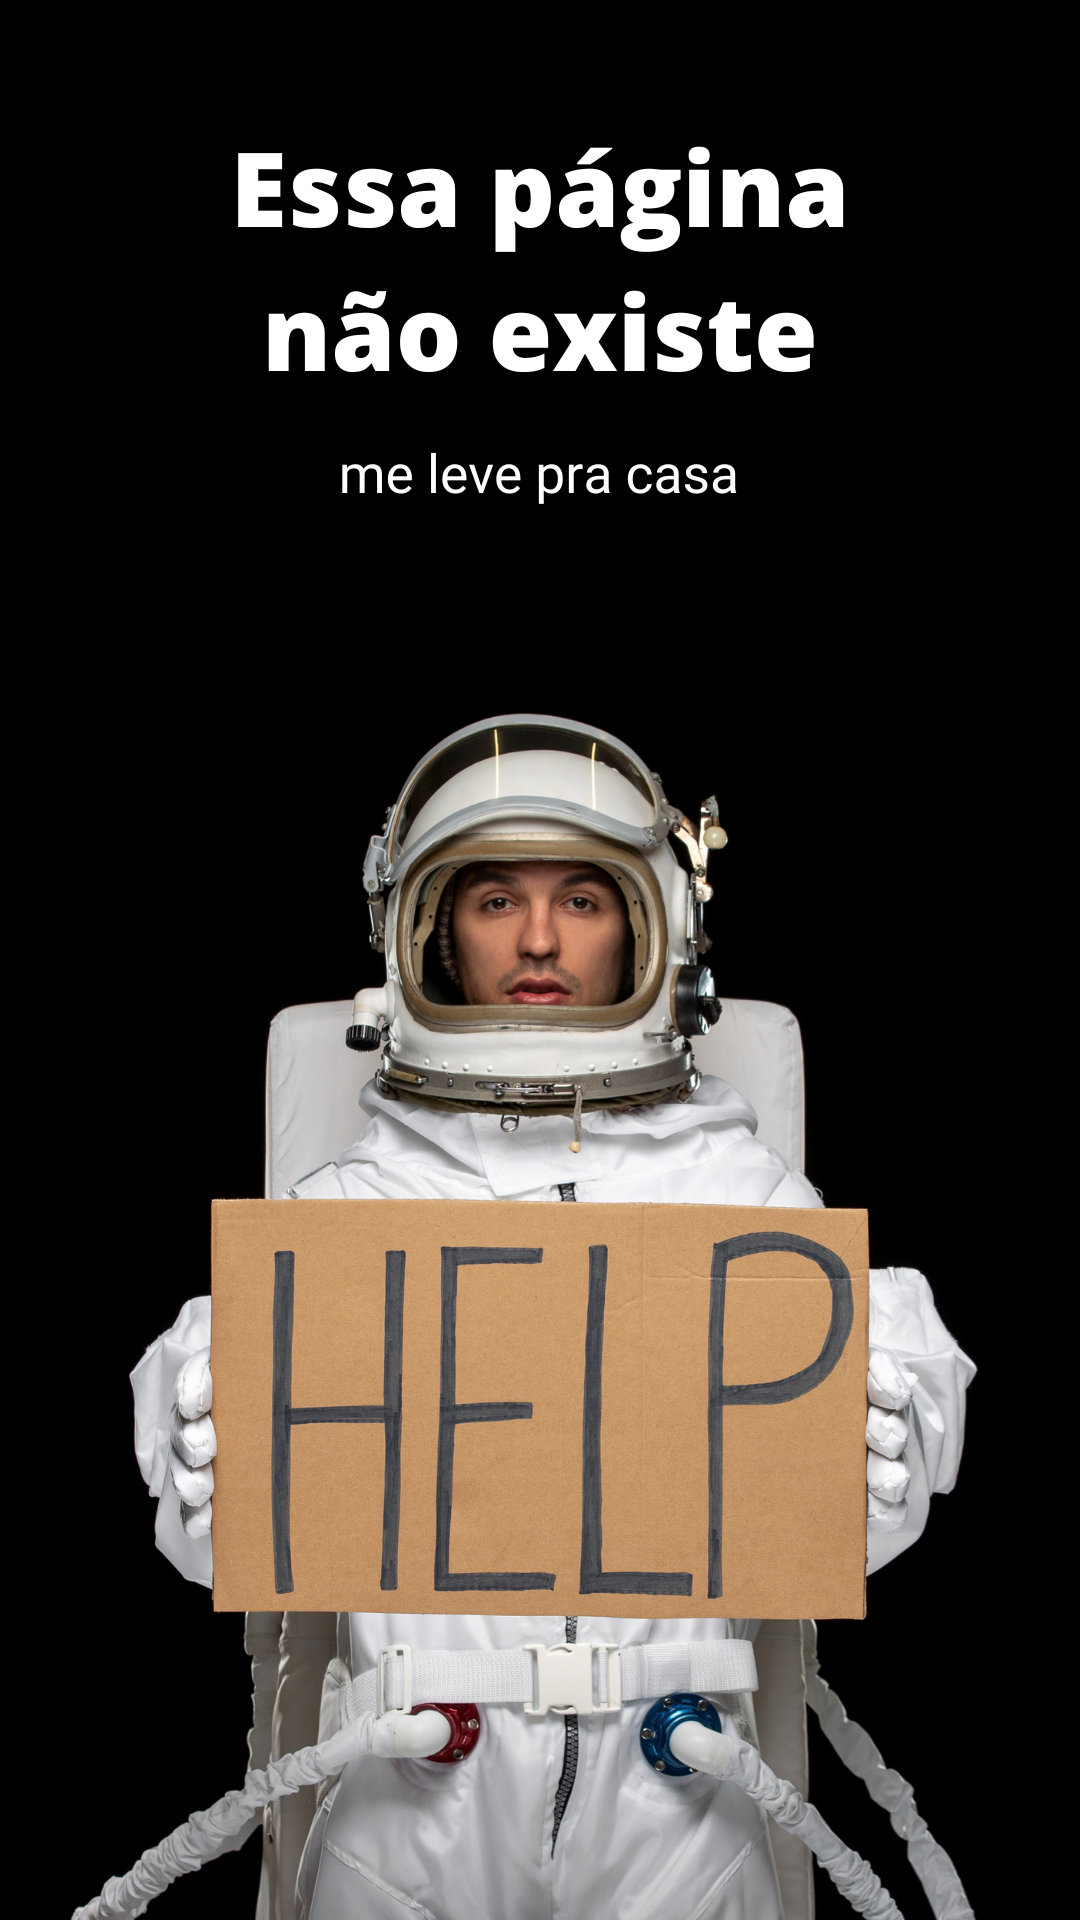
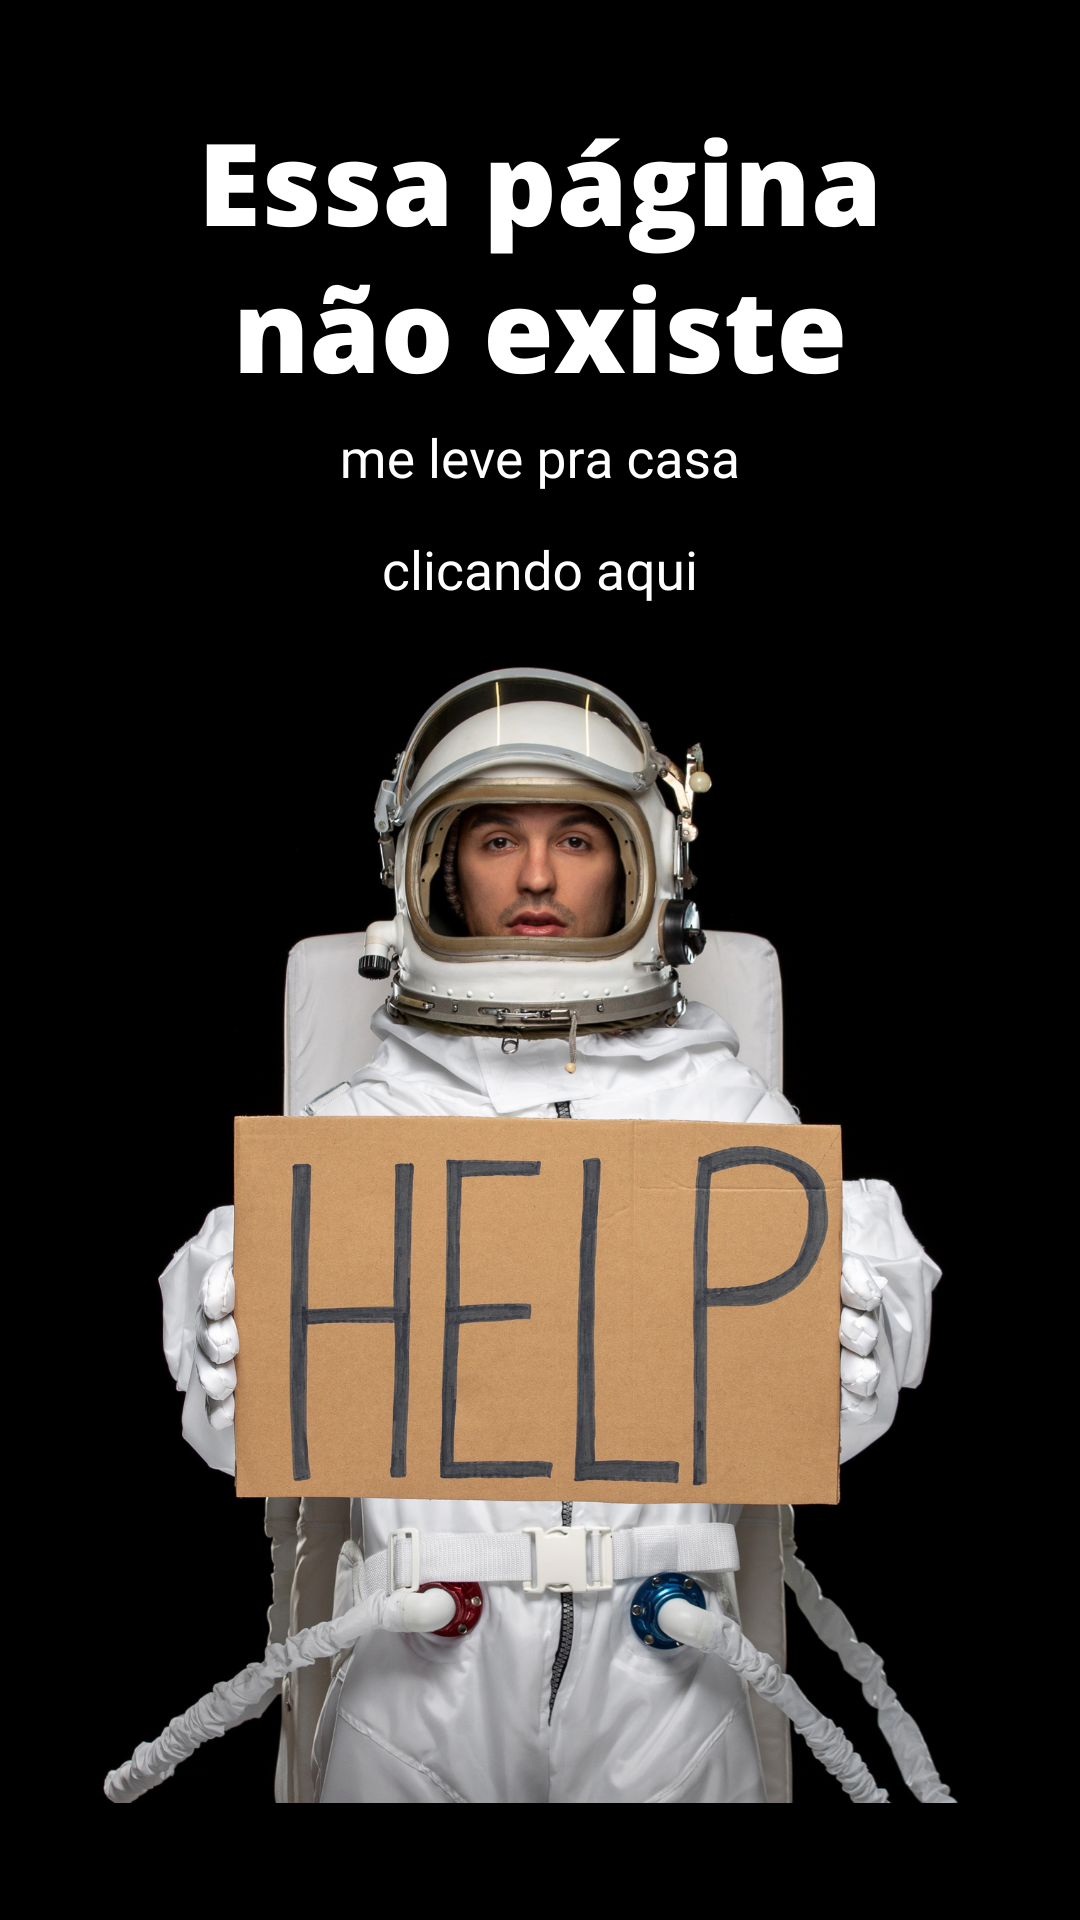
.

diff --git a/Nova pasta/style.css b/Nova pasta/style.css
@@ -14,15 +14,30 @@ body{
 }
 
 div{
- display: flex;
- height: 100vh;
- justify-content: center;
- align-items: center;
- margin-top: -30px;
- font-size: 25px;
+    display: flex;
+    justify-content: center;
+    align-items: center;
+    height: 100vh;
+    font-size: 25px;
+    margin-top: -50px;
 }
 
 p{
+    width: 150px;
+    padding: 4px;
+    text-align: center;
     color: blueviolet;
     background-color: white;
+    border-radius: 8px;
+    
+}
+
+a:hover{
+    text-decoration: none;
+}
+
+p:hover{
+    background-color: blueviolet;
+    color: white;
+    
 }
